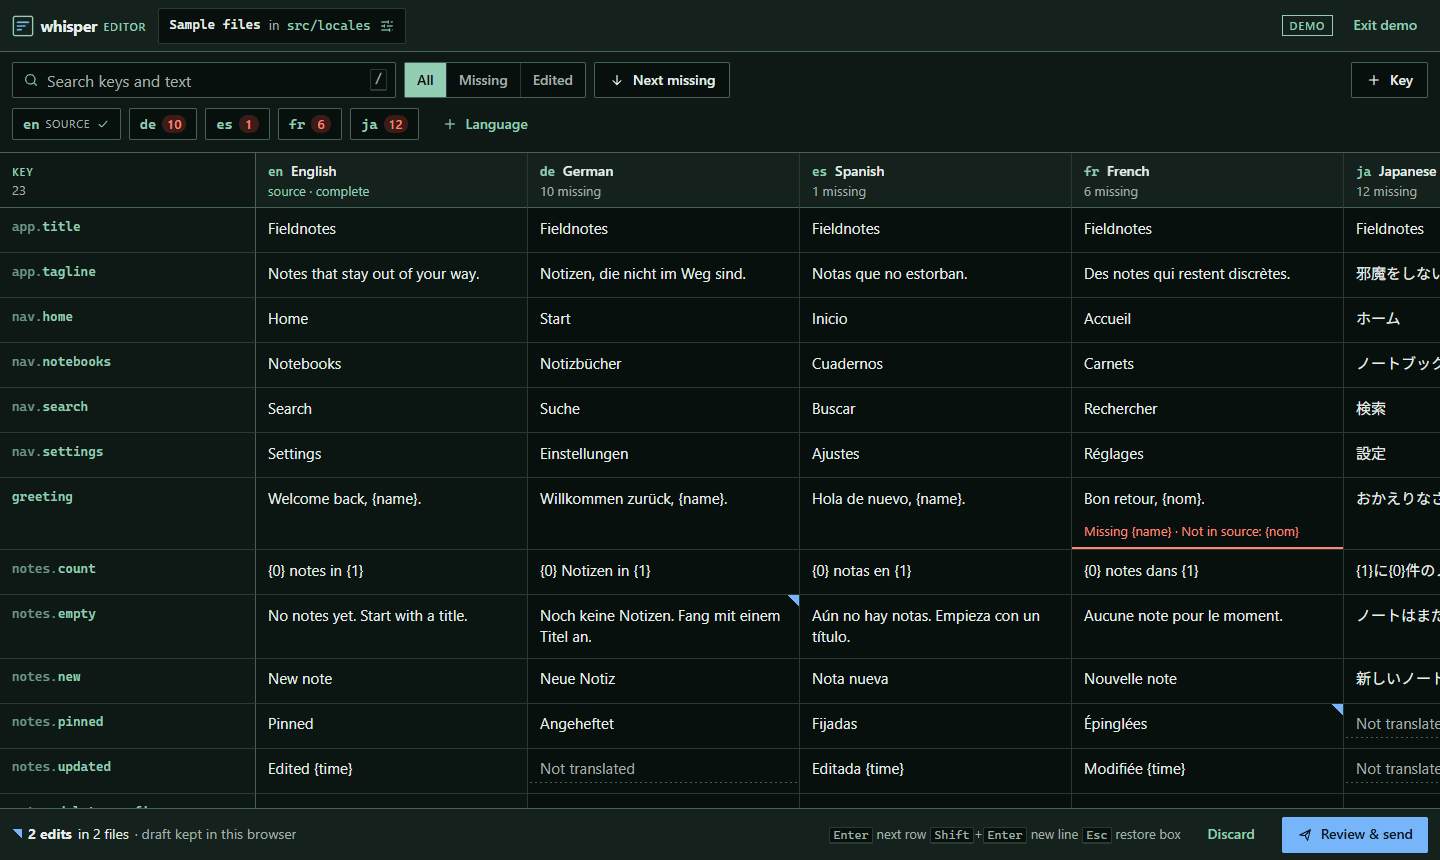
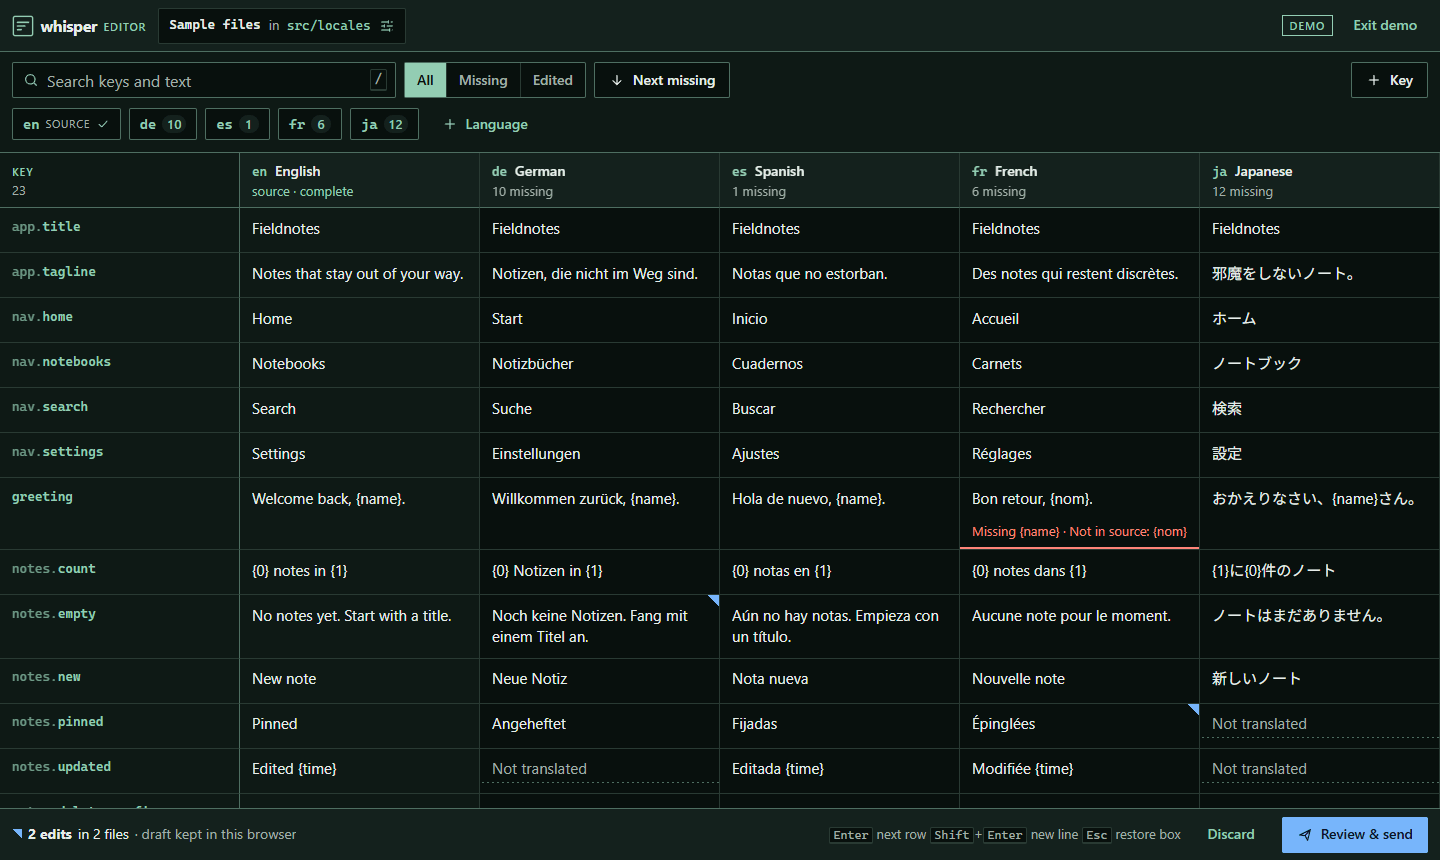
fix(editor): pin the declaration above the send action; fix Next label spacing; refresh screenshots

diff --git a/editor/src/lib/components/ReviewDialog.svelte b/editor/src/lib/components/ReviewDialog.svelte
@@ -165,24 +165,24 @@
 				</div>
 			{/if}
 		</fieldset>
-
-		<section class="declaration" aria-labelledby="decl-title">
-			<h3 id="decl-title" class="caption">Declaration</h3>
-			<p>
-				{changeTotal}
-				{changeTotal === 1 ? 'change' : 'changes'} to {langList} in <code>{repo}</code>,
-				{mode === 'pr' ? 'sent as a pull request into' : 'committed directly to'} <code>{branch}</code>{#if totals.warnings}, with
-					<strong class="alert-text">{totals.warnings} placeholder {totals.warnings === 1 ? 'issue' : 'issues'}</strong>{/if}.
-			</p>
-			<p class="sign">
-				<span class="signature">{demo ? 'demo visitor' : auth.user?.login || 'you'}</span>
-				<span class="caption">Sender</span>
-			</p>
-		</section>
 	{/if}
 
 	{#snippet footer()}
-		{#if demo}<p class="hint demo-note">Demo: nothing leaves this tab.</p>{/if}
+		{#if files.length}
+			<section class="declaration" aria-labelledby="decl-title">
+				<p>
+					<span id="decl-title" class="caption">Declaration</span>
+					{changeTotal}
+					{changeTotal === 1 ? 'change' : 'changes'} to {langList} in <code>{repo}</code>,
+					{mode === 'pr' ? 'as a pull request into' : 'committed straight to'} <code>{branch}</code>{#if totals.warnings}, with
+						<strong class="alert-text">{totals.warnings} placeholder {totals.warnings === 1 ? 'issue' : 'issues'}</strong>{/if}.{#if demo}{' '}Demo: nothing leaves this tab.{/if}
+				</p>
+				<p class="sign">
+					<span class="signature">{demo ? 'demo visitor' : auth.user?.login || 'you'}</span>
+					<span class="caption">Sender</span>
+				</p>
+			</section>
+		{/if}
 		<button class="btn" type="button" onclick={() => (open = false)}>Keep editing</button>
 		<button class="btn primary" type="button" disabled={!files.length || sending} onclick={send}>
 			<Icon name="send" size={16} />
@@ -342,19 +342,24 @@
 		text-transform: none;
 		color: var(--ink-2);
 	}
-	.demo-note {
-		margin-right: auto;
-		align-self: center;
-	}
 	.declaration {
-		display: grid;
-		gap: 0.5rem;
-		padding: 0.875rem 1rem;
-		border: 1px solid var(--rule-strong);
-		background: var(--paper);
+		flex: 1 1 100%;
+		display: flex;
+		flex-wrap: wrap;
+		align-items: flex-end;
+		justify-content: space-between;
+		gap: 0.5rem 1.5rem;
+		padding-bottom: 0.75rem;
+		margin-bottom: 0.25rem;
+		border-bottom: 1px dashed var(--rule-strong);
+		font-size: var(--t-sm);
 	}
 	.declaration p {
+		flex: 1 1 22rem;
 		max-width: 65ch;
+	}
+	.declaration .caption {
+		margin-right: 0.375rem;
 	}
 	.declaration code {
 		font-size: var(--t-sm);
@@ -363,13 +368,13 @@
 	.alert-text {
 		color: var(--alert);
 	}
-	.sign {
+	.declaration .sign {
+		flex: 0 1 12rem;
 		display: grid;
 		justify-items: start;
-		margin-top: 0.25rem;
 	}
 	.signature {
-		min-width: min(16rem, 100%);
+		min-width: min(12rem, 100%);
 		padding: 0 0.25rem 0.125rem;
 		border-bottom: 1px solid var(--ink);
 		font-family: var(--mono);

diff --git a/editor/src/lib/components/Toolbar.svelte b/editor/src/lib/components/Toolbar.svelte
@@ -56,7 +56,7 @@
 		</fieldset>
 
 		<button class="btn" onclick={onnext} aria-label="Next missing" title="Jump to the next untranslated box (Alt+N)">
-			<Icon name="next" size={16} /> <span>Next<span class="label"> missing</span></span>
+			<Icon name="next" size={16} /> <span>Next<span class="label">&nbsp;missing</span></span>
 		</button>
 
 		<span class="spacer"></span>
